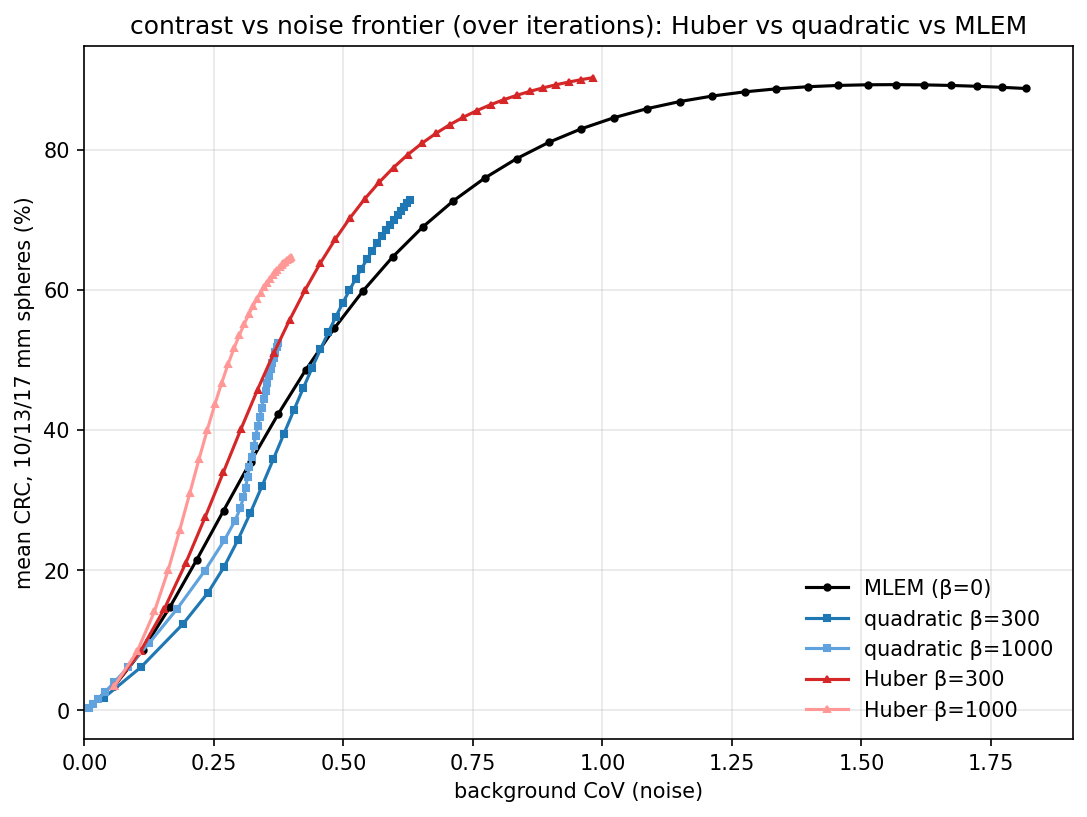
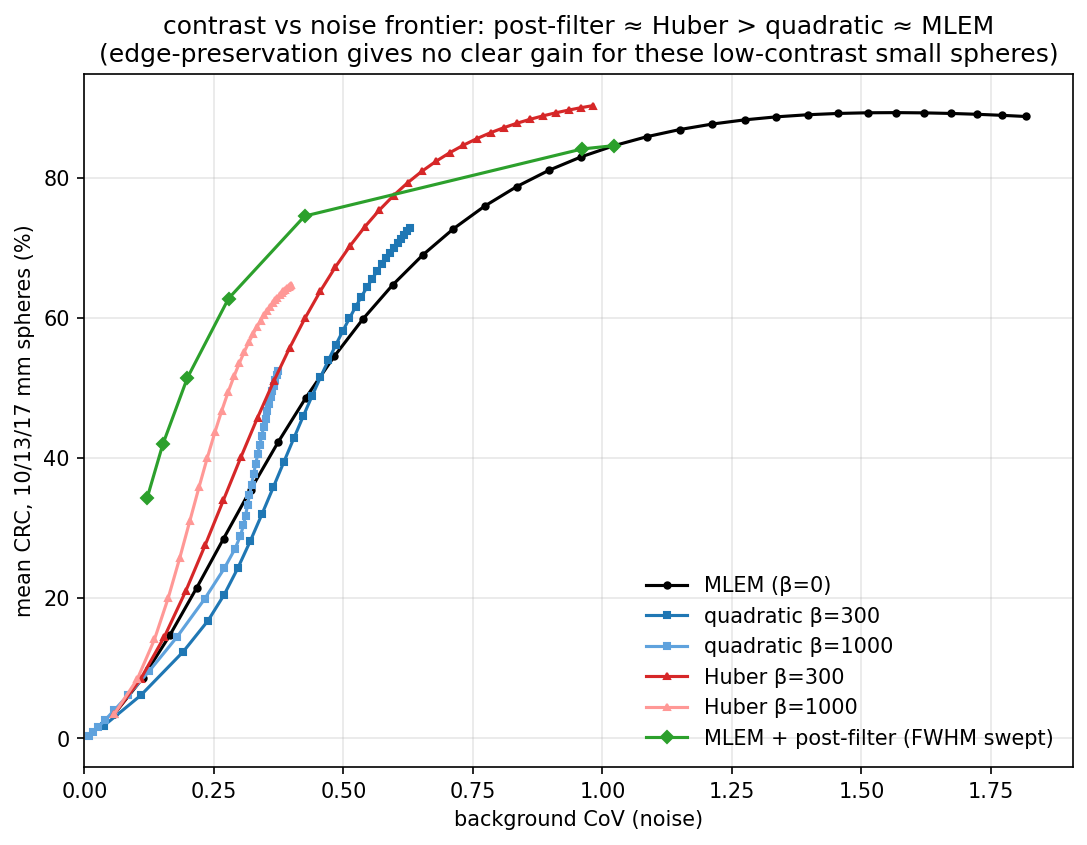
Redo NEMA headline with Huber; CORRECT the Huber-vs-postfilter claim
run.jl: main recon is now method-switchable (huber|mlem), default Huber
(beta=1000, delta=0.05, niter=30); regenerates nema_la_air_bgo.png.

Correction: the prior commit claimed "Huber dominates the frontier". That
omitted MLEM+post-filter from the comparison. Adding the post-filter curve
(scan_fwhm, same CoV metric) to method_compare_plot shows post-filter ~=
Huber -- comparable, not dominated. The earlier "dominates" was vs the
unfiltered-MLEM and quadratic-prior traces only. Edge preservation gives no
clear gain here because the small spheres are LOW-contrast (no strong edges).
Honest finding: post-filter ~ Huber > quadratic ~ MLEM; the noise is
ill-conditioning (controllable), method choice is ~a wash for this metric.

diff --git a/recoExamples/nema/nema_la_air_bgo/method_compare_plot.py b/recoExamples/nema/nema_la_air_bgo/method_compare_plot.py
@@ -16,6 +16,7 @@ import matplotlib.pyplot as plt
 HERE = os.path.dirname(os.path.abspath(__file__))
 dq = np.load(os.path.join(HERE, "out", "nema_la_air_bgo_penalized_scan.npz"))
 dh = np.load(os.path.join(HERE, "out", "nema_la_air_bgo_huber_scan.npz"))
+df = np.load(os.path.join(HERE, "out", "nema_la_air_bgo_fwhm_scan.npz"))  # MLEM + post-filter
 diam = dq["diam_mm"]
 small = np.argsort(diam)[:3]                 # 10, 13, 17 mm
 
@@ -25,6 +26,11 @@ def trace(d, beta):
     cov = d["cov"][bi]
     crc = d["crc"][bi][:, small].mean(axis=1)  # mean over the 3 smallest spheres
     return cov, crc
+
+
+def postfilter_trace(d):
+    # MLEM + Gaussian post-filter, swept over FWHM (same CoV metric)
+    return d["cov"], d["crc"][:, small].mean(axis=1)
 
 
 fig, ax = plt.subplots(figsize=(8.5, 6))
@@ -38,10 +44,15 @@ curves = [
 for d, beta, lab, col, style in curves:
     cov, crc = trace(d, beta)
     ax.plot(cov, crc, style, ms=3, color=col, label=lab)
+# MLEM + post-filter, swept over FWHM (the honest comparison the iterative
+# traces alone omit) -- post-filtering moves MLEM off its unfiltered trace
+covf, crcf = postfilter_trace(df)
+ax.plot(covf, crcf, "-D", ms=4, color="#2ca02c", label="MLEM + post-filter (FWHM swept)")
 
 ax.set_xlabel("background CoV (noise)")
 ax.set_ylabel("mean CRC, 10/13/17 mm spheres (%)")
-ax.set_title("contrast vs noise frontier (over iterations): Huber vs quadratic vs MLEM")
+ax.set_title("contrast vs noise frontier: post-filter ≈ Huber > quadratic ≈ MLEM\n"
+             "(edge-preservation gives no clear gain for these low-contrast small spheres)")
 ax.grid(alpha=0.3)
 ax.legend(frameon=False)
 ax.set_xlim(left=0)